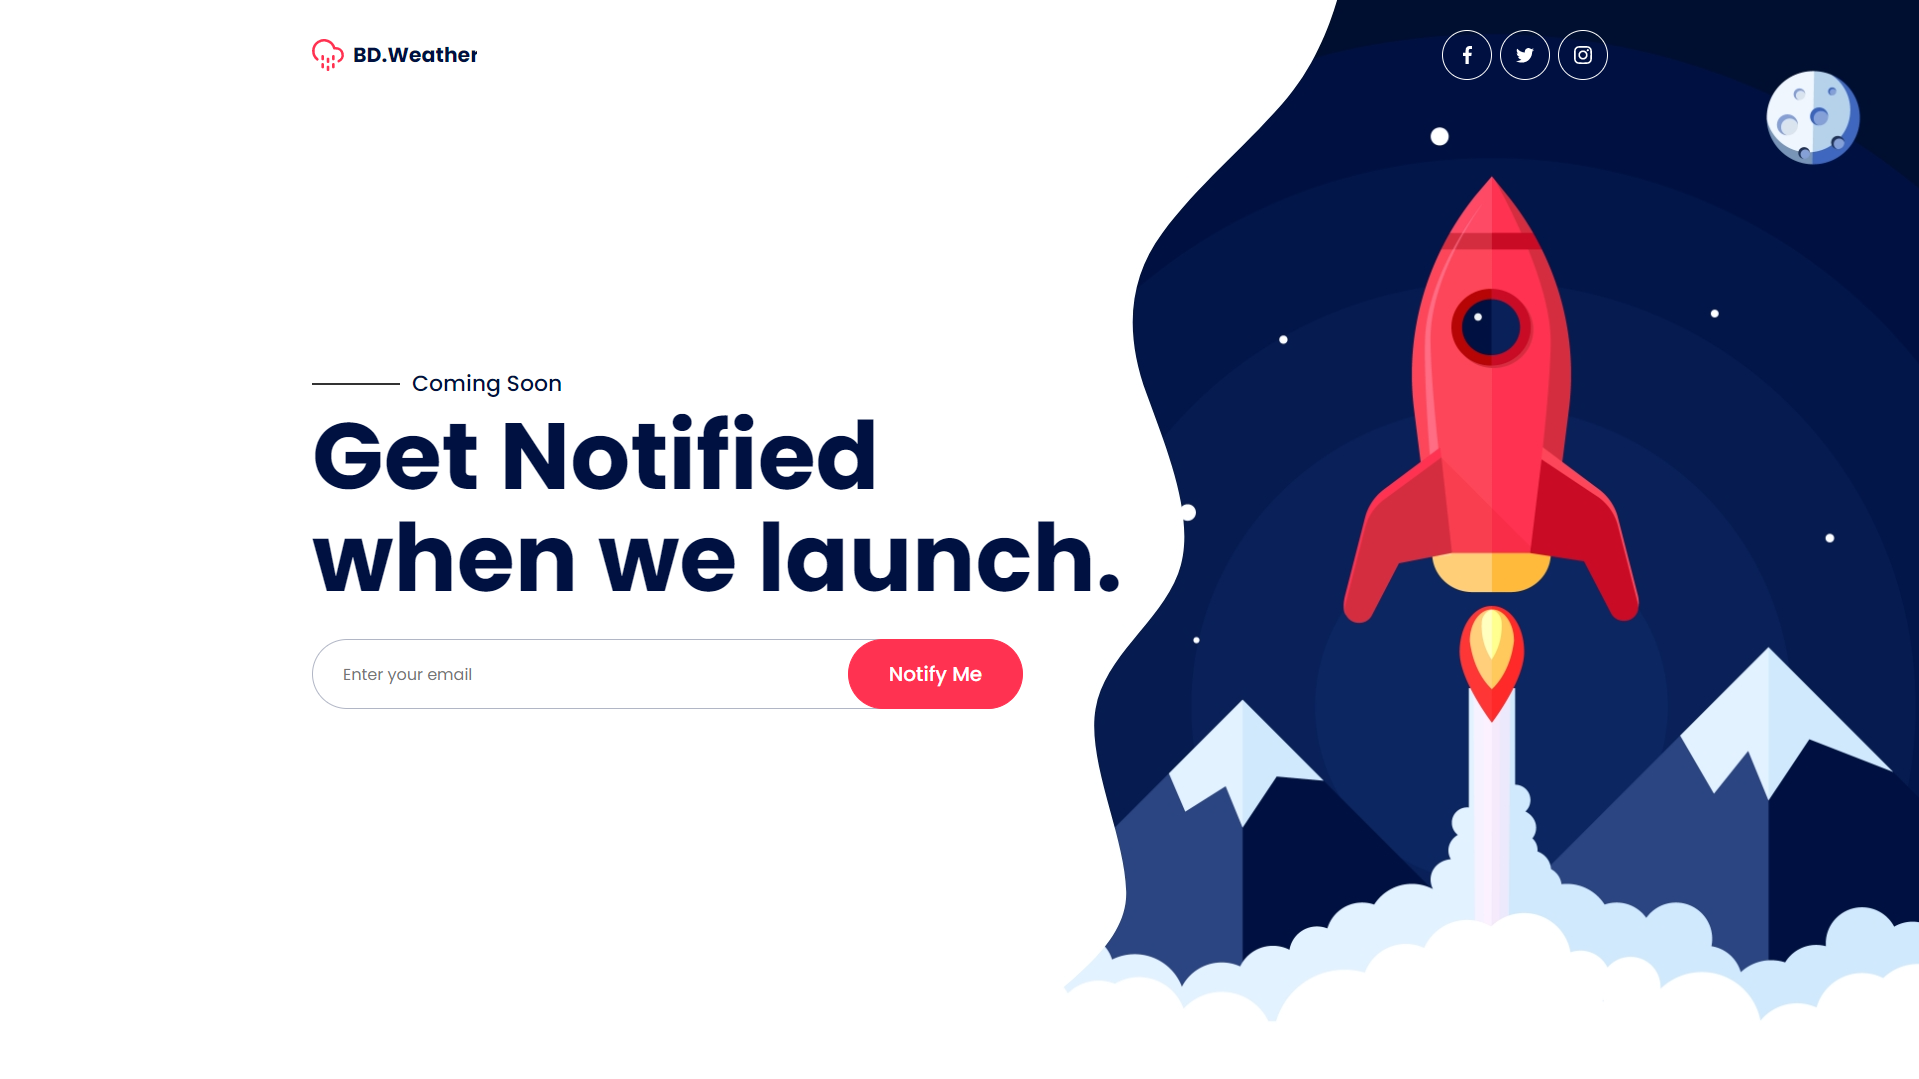
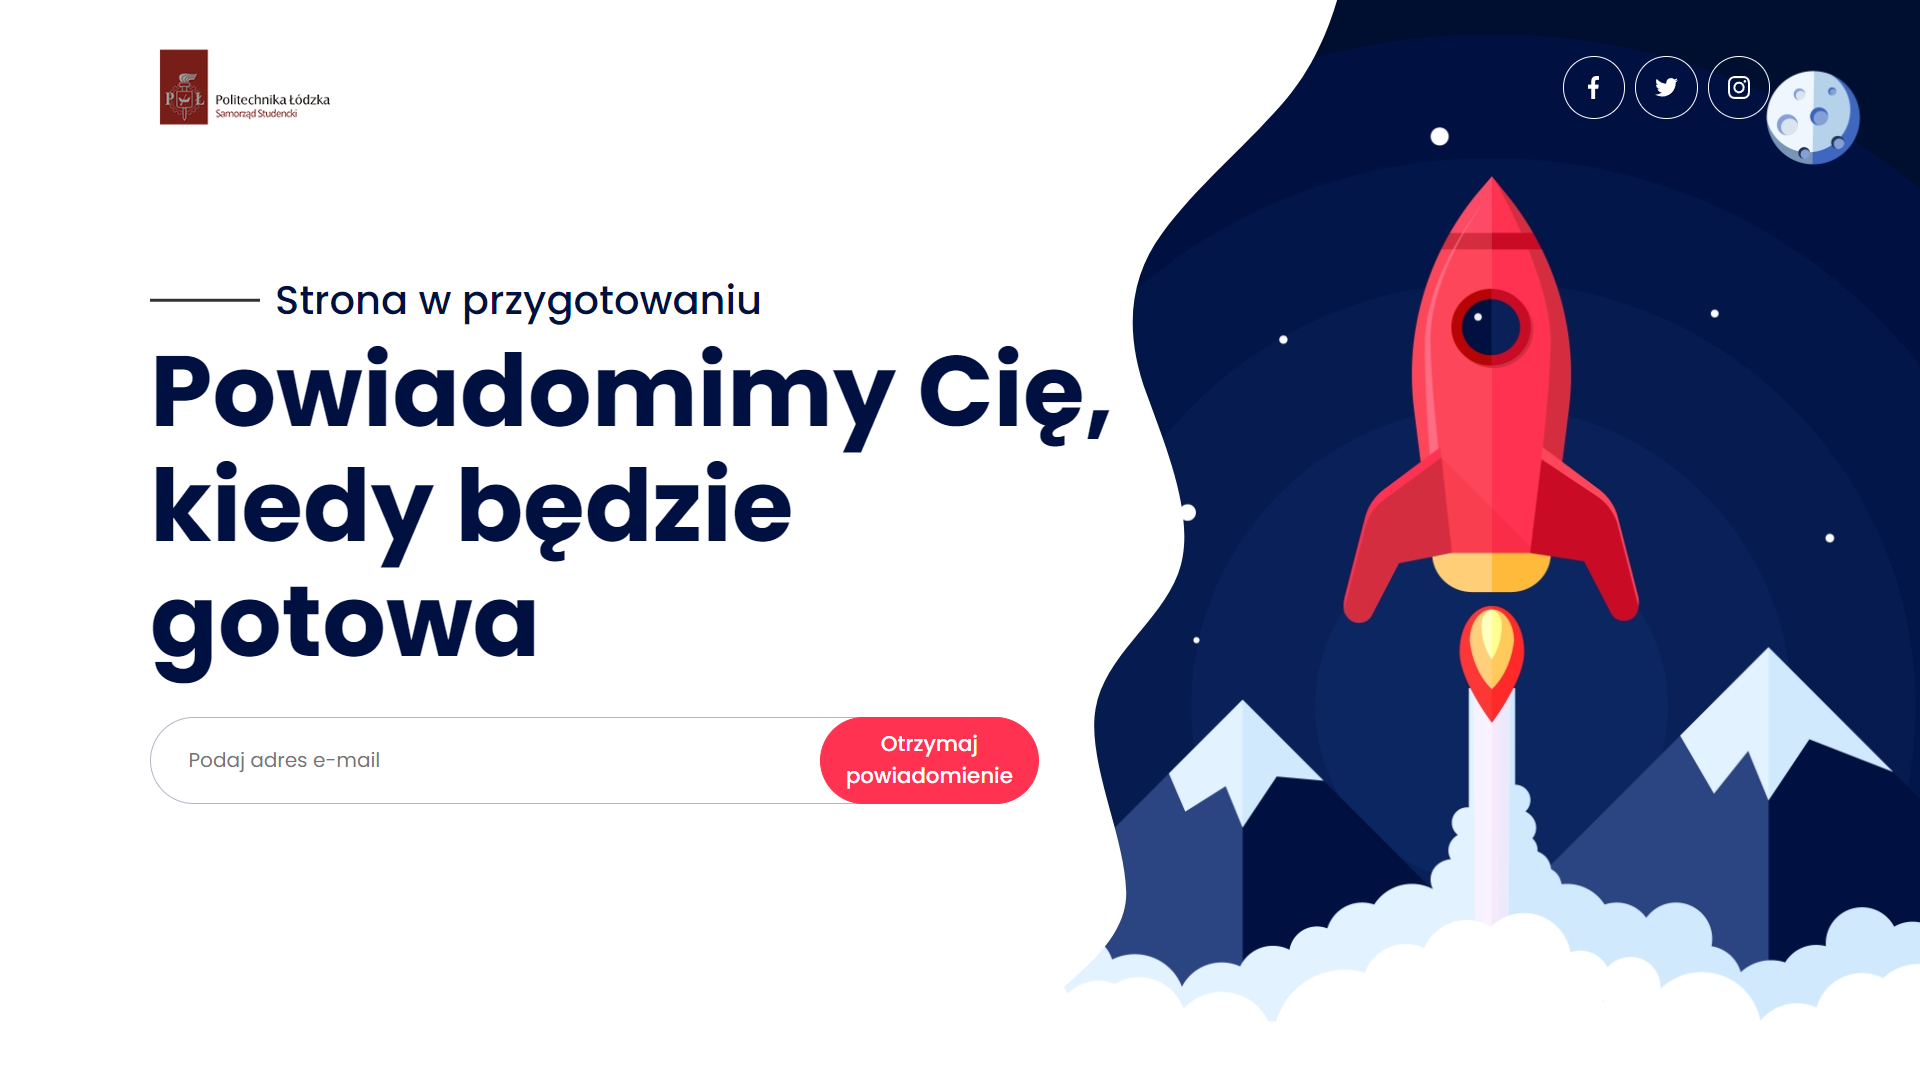
Updated README.md

diff --git a/README.md b/README.md
@@ -1,18 +1,9 @@
-# [Echotemplate.com](https://echotemplate.com)
-FREE UI & HTML Templates for Designer and Developer. Echotemplate is a place where a team of design & developers create beautiful templates. Visit [Echotemplate.com](https://echotemplate.com) for more updates.
+# In-progress page for SSPŁ websites
 
-# [BD Weather Coming Soon Responsive HTML Template](https://echotemplate.com/templates/bd-weather-coming-soon-responsive-html-template)
-
-> Coming Soon Responsive HTML Template based on bootstrap framework v5.
-
-This project is a bootstrap version [BD Weather Coming Soon Responsive HTML Template](http://echotemplate.com) designed with HTML & CSS.
-
-Check the [Live Demo here](http://demo.echotemplate.com/bd-weather-coming-soon-responsive-html-template/).
+Page that is to be a placeholder for pages that are currently under maintenance or not deployment-ready. It allows the user to enter and send their email to our Google Workspace database, so that we notify when the page they were looking for is ready.
 
 ![](screenshot.png)
 
-## Credits
-- Design by coded by [Zakir Soft](https://zakirsoft.com)
-
 ## License
+
 The MIT License (MIT). Please see [License File](LICENSE.md) for more information.
